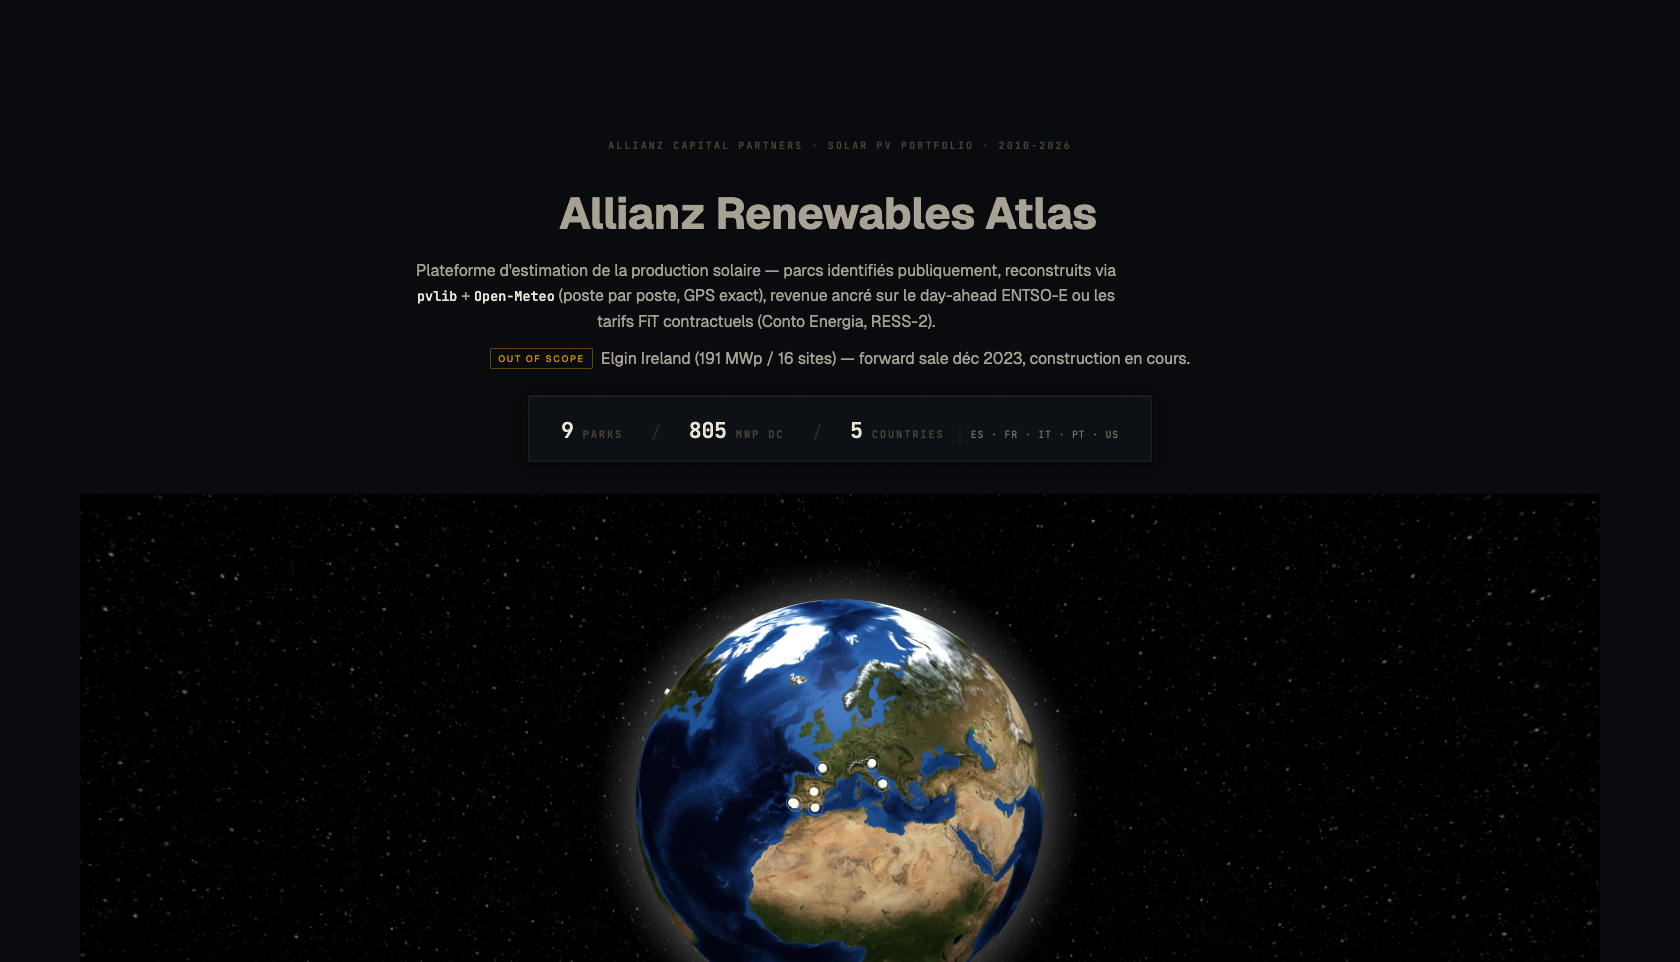
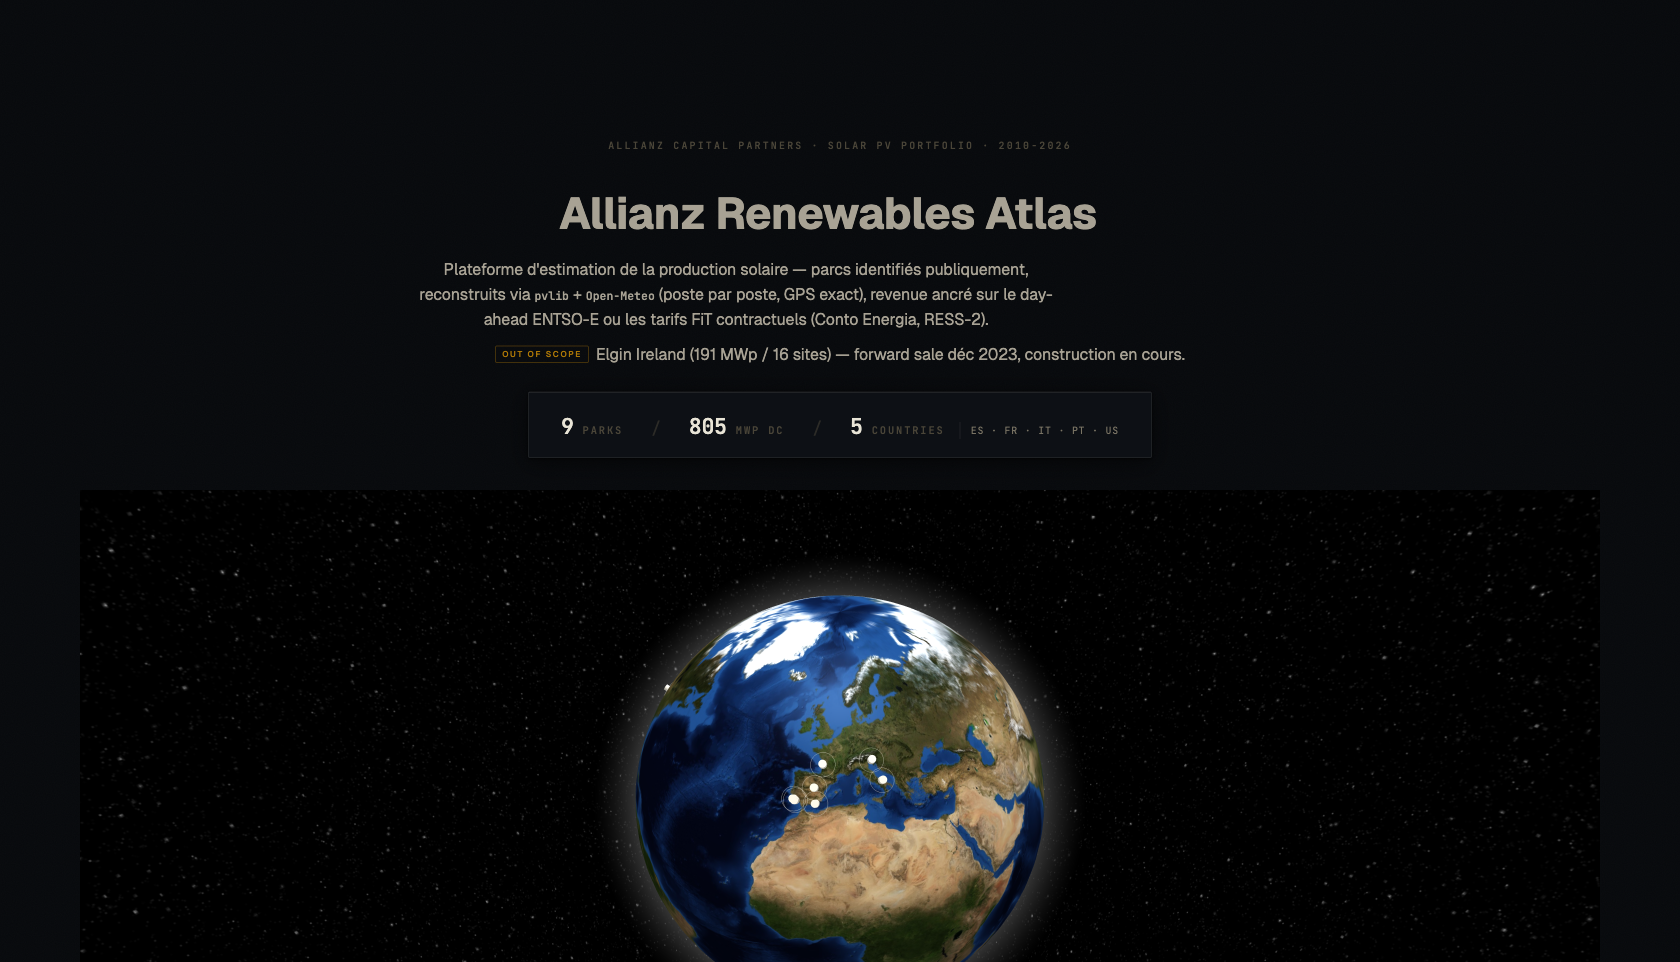
polish(v32.2): shrink atlas-tag + atlas-note typography
User feedback: header description text was too prominent visually.

- atlas-tag: 0.92rem → 0.78rem, color text-secondary → text-muted
  (still readable, less competing with title)
- atlas-tag .tech (pvlib/Open-Meteo inline): 0.84rem → 0.72rem
- atlas-note: 0.74rem → 0.65rem, color text-muted → text-faint
- atlas-note-flag (OUT OF SCOPE): 0.58rem → 0.52rem, opacity 0.85
- max-width 700 → 640px (tighter line length, ~60-65 chars)

Result: hierarchy now reads title >> tag > kpi-bar (kpi numbers stay
visually dominant since they're the actual portfolio summary).

diff --git a/src/assets/style.css b/src/assets/style.css
@@ -365,19 +365,19 @@ p, span, label, [data-testid="stMarkdownContainer"] p {
 }
 
 .atlas-tag {
-  color: var(--text-secondary);
-  font-size: 0.92rem;
-  margin: 14px auto 10px;
-  max-width: 700px;
-  line-height: 1.6;
+  color: var(--text-muted);
+  font-size: 0.78rem;
+  margin: 12px auto 8px;
+  max-width: 640px;
+  line-height: 1.55;
   font-weight: 400;
-  letter-spacing: -0.003em;
+  letter-spacing: 0.005em;
 }
 
 .atlas-tag .tech {
-  color: var(--text-primary);
+  color: var(--text-secondary);
   font-family: 'JetBrains Mono', monospace;
-  font-size: 0.84rem;
+  font-size: 0.72rem;
   letter-spacing: 0;
   font-weight: 500;
 }
@@ -385,24 +385,25 @@ p, span, label, [data-testid="stMarkdownContainer"] p {
 .atlas-note {
   display: inline-flex;
   align-items: center;
-  gap: 8px;
-  font-size: 0.74rem;
-  color: var(--text-muted);
+  gap: 7px;
+  font-size: 0.65rem;
+  color: var(--text-faint);
   font-family: 'JetBrains Mono', monospace;
-  letter-spacing: 0.01em;
-  margin: 4px 0 0;
+  letter-spacing: 0.02em;
+  margin: 2px 0 0;
 }
 
 .atlas-note-flag {
   color: var(--severity-amber);
-  font-size: 0.58rem;
+  font-size: 0.52rem;
   font-weight: 500;
-  letter-spacing: 0.18em;
+  letter-spacing: 0.2em;
   text-transform: uppercase;
-  padding: 2px 7px;
-  border: 1px solid rgba(202, 138, 4, 0.45);
+  padding: 1px 6px;
+  border: 1px solid rgba(202, 138, 4, 0.35);
   border-radius: 2px;
   background: transparent;
+  opacity: 0.85;
 }
 
 /* ---- Atlas key figures — inline pill bar (replaces generic 3 cards) ---- */